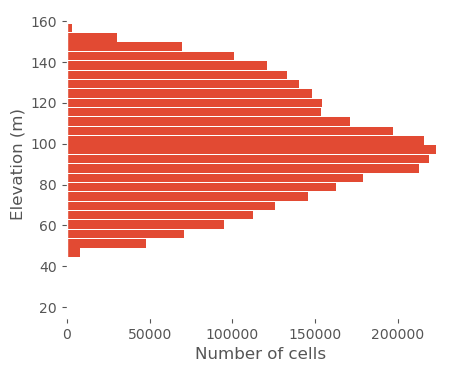
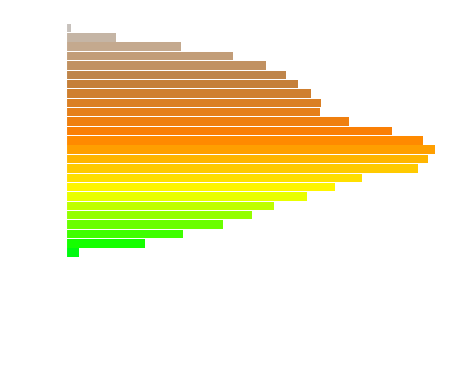
udpate manual

diff --git a/src/raster/r.histogram/r.histogram.md b/src/raster/r.histogram/r.histogram.md
@@ -52,9 +52,11 @@ Matplotlib is required.
 
 ## EXAMPLES
 
-The examples use the Raleigh, North Carolina sample dataset.
+The examples below use the data from the
+[Raleigh, North Carolina sample dataset](https://grass.osgeo.org/download/data/).
 
-Draw a 40-bin histogram of the `elevation` raster:
+The first example draw a histogram of the `elevation` raster, setting the plot
+dimensions and DPI.
 
 ```sh
 g.region raster=elevation
@@ -64,7 +66,10 @@ r.histogram map=elevation plot_dimensions=5,4 \
 
 ![](r_histogram_01.png)
 
-To change the appearance of the plot, apply a matplotlib style, like the ggplot style.
+To change the appearance of the plot, you can tweak individual elements, but
+also apply a
+[matplotlib style](https://tonysyu.github.io/raw_content/matplotlib-style-gallery/gallery.html).
+Below, the ggplot style is used.
 
 ```sh
 r.histogram map=elevation plot_dimensions=5,4 \
@@ -74,8 +79,9 @@ r.histogram map=elevation plot_dimensions=5,4 \
 
 ![](r_histogram_02.png)
 
-Draw the histogram with each bar colored from the `elevation` raster color
-table and express the frequencies as percentages. We'll use 
+For a bit more colorfull result, we can draw the histogram with each bar colored
+based on the corresponding `elevation` raster color table. And we can express
+the frequencies as percentages.
 
 ```sh
 r.histogram -c map=elevation plot_dimensions=5,4 \
@@ -86,8 +92,8 @@ r.histogram -c map=elevation plot_dimensions=5,4 \
 ![](r_histogram_03.png)
 
 
-Draw a horizontal histogram with a grid, a reduced relative bar width, and a
-Matplotlib style:
+And one last example, let's draw a horizontal histogram with a grid, a reduced
+relative bar width, and a dark background:
 
 ```sh
 r.histogram -hg map=elevation plot_dimensions=5,4 \
@@ -96,7 +102,7 @@ r.histogram -hg map=elevation plot_dimensions=5,4 \
   background_color=transparent output=r_histogram_04.png
 ```
 
-![](r_histogram_03.png)
+![](r_histogram_04.png)
 
 ## SEE ALSO
 
